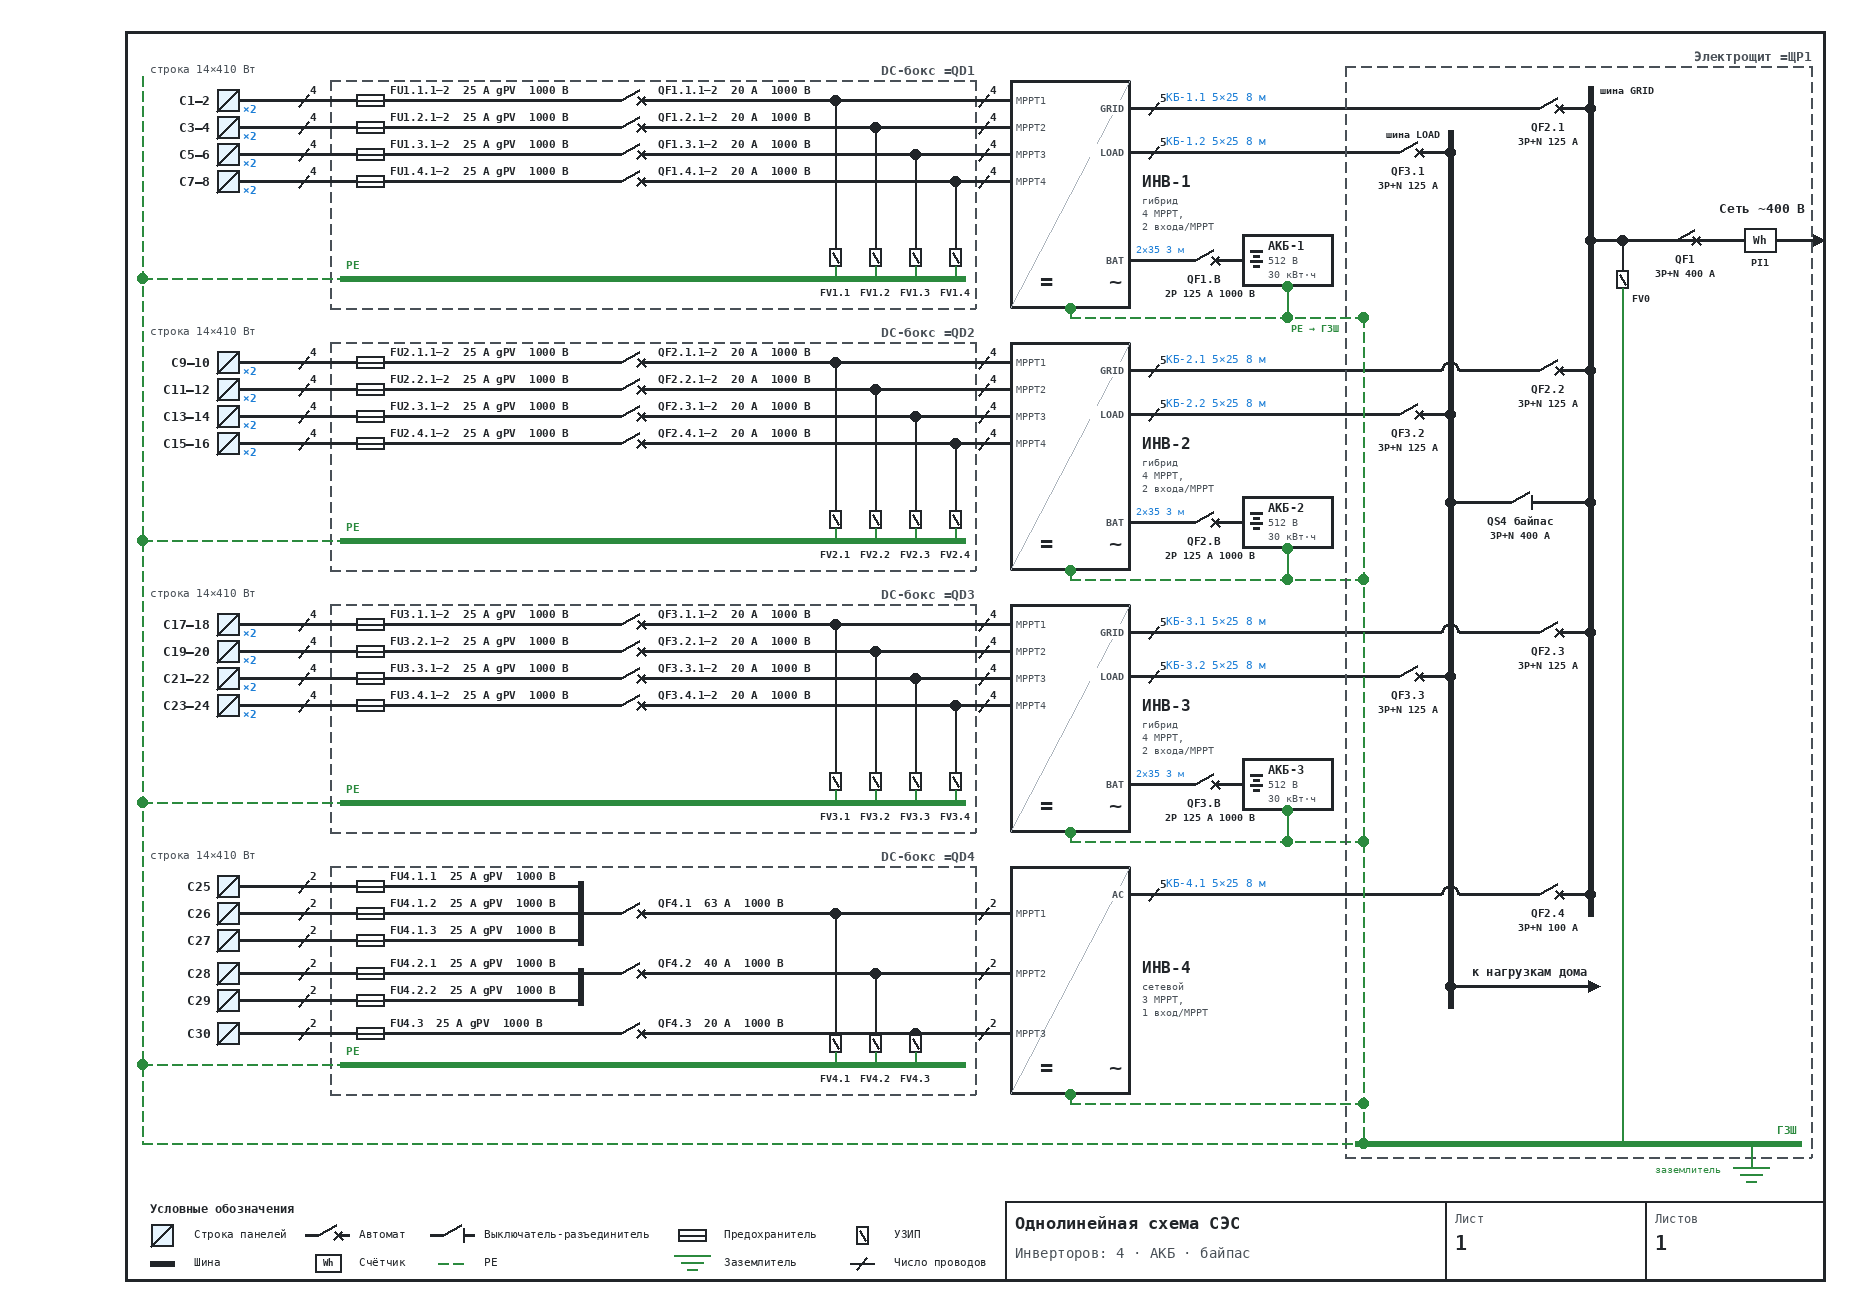
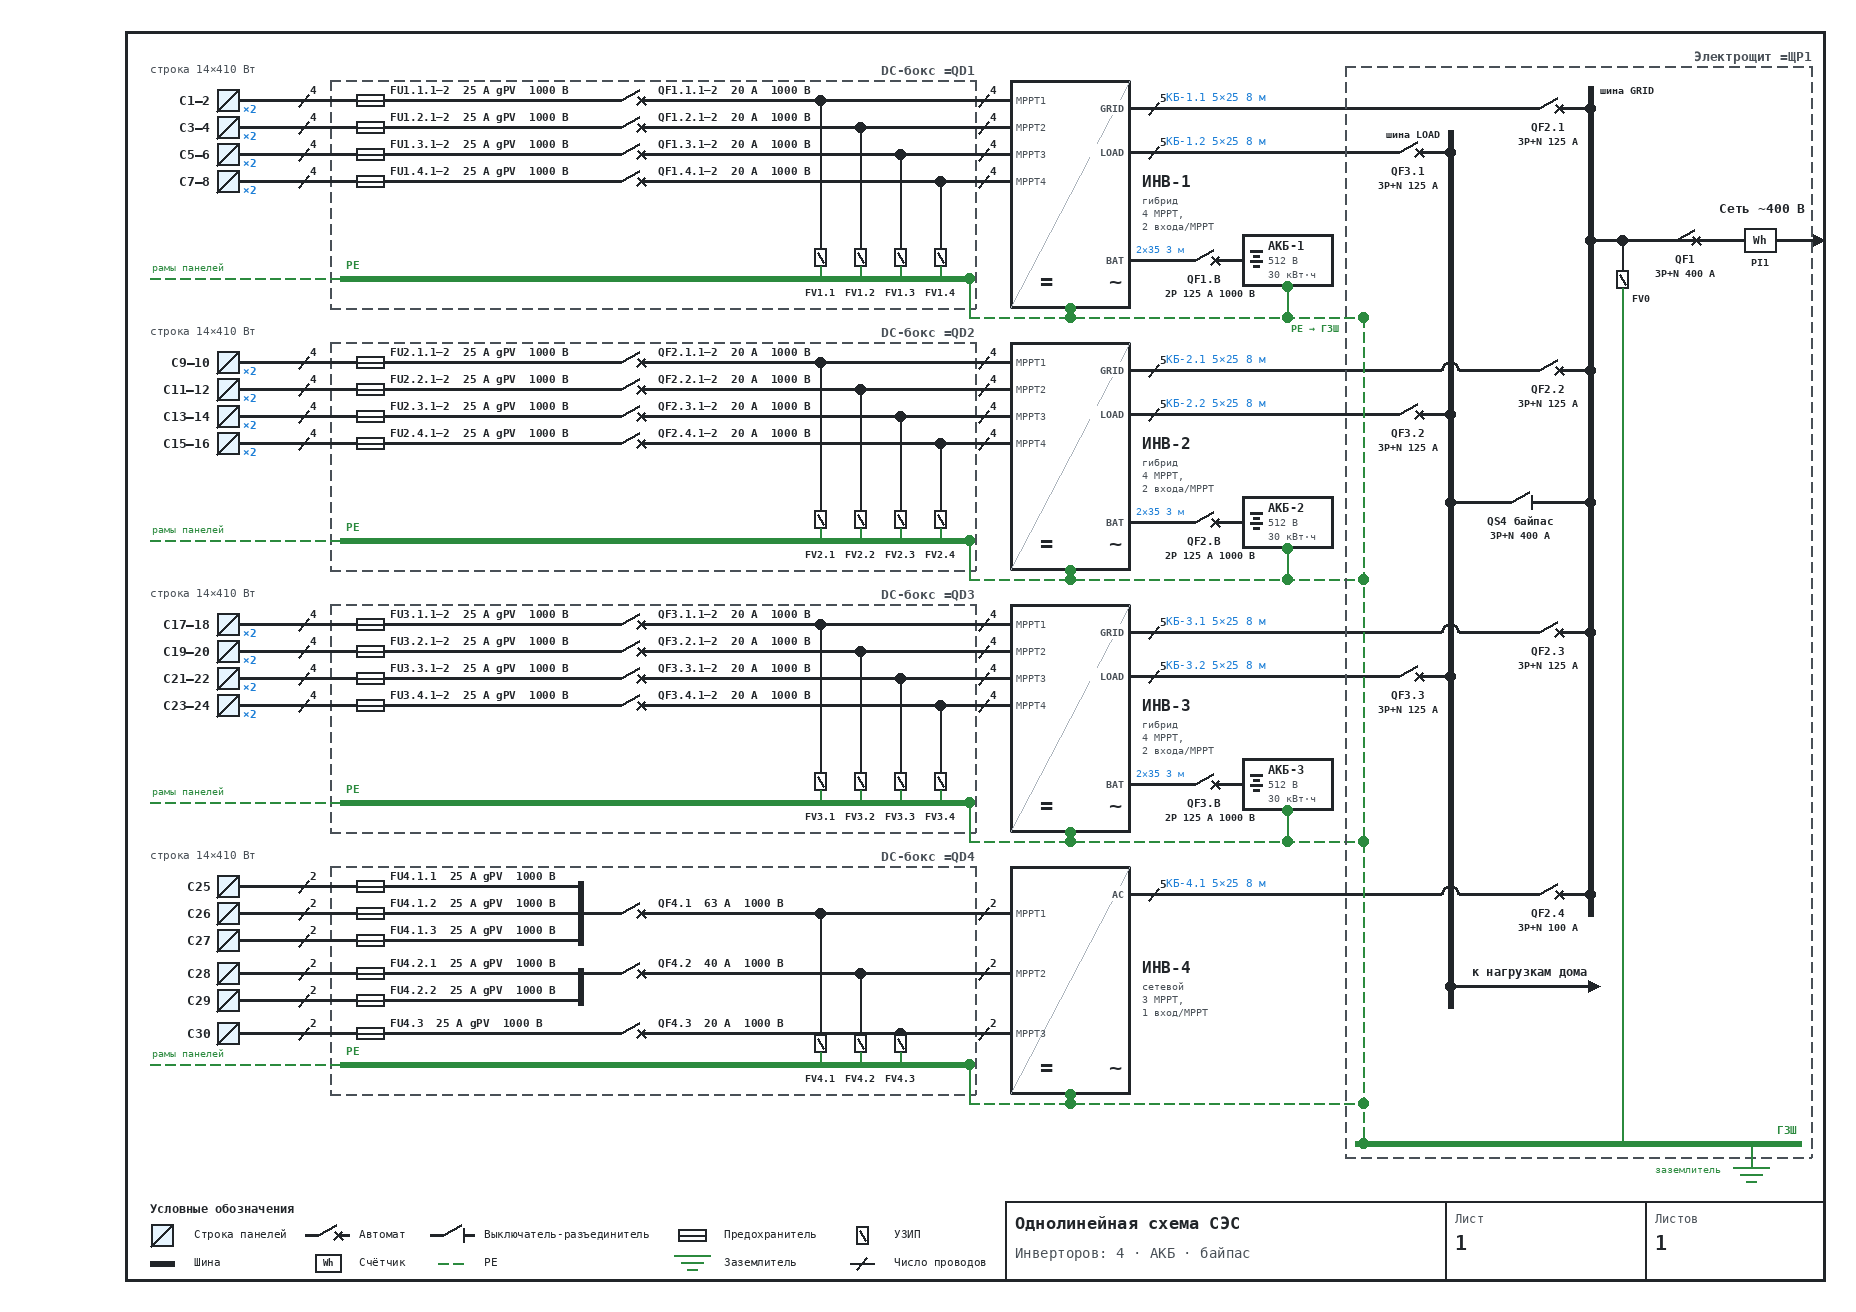
docs: SLD standard - DC box PE bar wired straight to the panel earth bar
Claude-Session: https://claude.ai/code/session_013Xj2HnZp4SaucR5PaR6RJF

diff --git a/docs/sld/tpl4.py b/docs/sld/tpl4.py
@@ -9,7 +9,7 @@ S.t('Однолинейная схема СЭС',sx0+10,sy0+12,17,True); S.t('И
 S.t('Лист',sx0+450,sy0+10,12,False,GREY); S.t('1',sx0+450,sy0+30,20,True); S.t('Листов',sx0+650,sy0+10,12,False,GREY); S.t('1',sx0+650,sy0+30,20,True)
 xPV=228; xD0=330; xD1=975; xI0=1010; xI1=1130; xP0=1345; xP1=W-45; xCol=142
 xLB=1450; xGB=1590
-fuX=xD0+40; busX=xD0+250; swX=xD0+300; spX0=xD0+505
+fuX=xD0+40; busX=xD0+250; swX=xD0+300; spX0=xD0+490
 top=56; slotH=262; pey=top+4*slotH+39; xPE=xP0+18
 def fuse(x,y): d.rectangle((x-14,y-6,x+14,y+6),fill='white',outline=INK,width=2); S.l(x-14,y,x+14,y,2)
 def qf(x,y): S.l(x-22,y,x-9,y); S.l(x-9,y,x+9,y-10); d.line((x+7,y-4,x+15,y+4),fill=INK,width=2); d.line((x+7,y+4,x+15,y-4),fill=INK,width=2); S.l(x+11,y,x+22,y)
@@ -51,14 +51,15 @@ for k,(n,mp,par,si,kind,sub) in enumerate(slots):
             ins.append((ly,f'MPPT{m}')); taps.append((ly,f'FV{n}.{m}')); si+=k2; yy+=P
     for i,(ly,lab) in enumerate(taps):
         x=spX0+i*40; S.dot(x,ly); S.l(x,ly,x,ybar-30,2); spdb(x,ybar-30); S.l(x,ybar-12,x,ybar,2,GRN); S.t(lab,x,ybar+8,10,True,anc='ma')
-    S.l(xD0+10,ybar,xD1-10,ybar,6,GRN); S.t('PE',xD0+16,ybar-20,11,True,GRN); dash(xCol,ybar,xD0+10,ybar); S.dot(xCol,ybar,GRN)
+    S.l(xD0+10,ybar,xD1-6,ybar,6,GRN); S.t('PE',xD0+16,ybar-20,11,True,GRN); dash(xCol+8,ybar,xD0+10,ybar); S.t('рамы панелей',xCol+10,ybar-17,10,False,GRN)
+    xdp=xD1-6; S.dot(xdp,ybar,GRN)
     # inverter + its own PE drop (enclosure) to the PE trunk
     d.rectangle((xI0,y0,xI1,y0+bh),outline=INK,width=3,fill='white'); S.l(xI0,y0+bh,xI1,y0,1,LG)
     S.t('=',xI0+30,y0+bh-40,22,True); S.t('~',xI1-8,y0+bh-40,22,True,anc='ra')
     for (iy,it) in ins: S.t(it,xI0+6,iy-6,10,False,GREY)
     # PE of the inverter enclosure (and battery) -> main panel ГЗШ via collector xPE
     cx=(xI0+xI1)//2; ype=y0+bh+9
-    S.dot(cx,y0+bh,GRN); S.l(cx,y0+bh,cx,ype,2,GRN); dash(cx,ype,xPE,ype); S.dot(xPE,ype,GRN)
+    S.dot(cx,y0+bh,GRN); S.l(cx,y0+bh,cx,ype,2,GRN); S.l(xdp,ybar,xdp,ype,2,GRN); dash(xdp,ype,xPE,ype); S.dot(cx,ype,GRN); S.dot(xPE,ype,GRN)
     if k==0: S.t('PE → ГЗШ',xP0-6,ype+5,10,True,GRN,anc='ra')
     S.t(f'ИНВ-{n}',xI1+12,y0+92,16,True); S.t(kind,xI1+12,y0+114,10,False,GREY); S.t(sub.split(', ')[0]+',',xI1+12,y0+127,10,False,GREY); S.t(sub.split(', ')[1],xI1+12,y0+140,10,False,GREY)
     if kind=='гибрид':
@@ -113,7 +114,7 @@ S.t('к нагрузкам дома',xh,yHs-22,12,True,anc='ra')
 # PE
 S.l(xP0+10,pey,xP1-10,pey,6,GRN); S.t('ГЗШ',xP1-14,pey-20,11,True,GRN,anc='ra')
 xe=xP1-60; S.l(xe,pey,xe,pey+24,2,GRN); S.earth(xe,pey+24); S.t('заземлитель',xe-30,pey+20,10,False,GRN,anc='ra')
-dash(xCol,top+20,xCol,pey); dash(xCol,pey,xP0+10,pey); S.l(xPE,top+slotH-1,xPE,pey,2,GRN,[10,5]); S.dot(xPE,pey,GRN)
+S.l(xPE,top+slotH-1,xPE,pey,2,GRN,[10,5]); S.dot(xPE,pey,GRN)
 # compact legend: one block, 2 rows x 5
 lx,ly=150,H-31-80; S.t('Условные обозначения',lx,ly,12,True)
 items=[('pv','Строка панелей'),('qf','Автомат'),('qs','Выключатель-разъединитель'),('fu','Предохранитель'),('spd','УЗИП'),

diff --git a/TZ_2026-11-09_standart_SLD.md b/TZ_2026-11-09_standart_SLD.md
@@ -31,8 +31,10 @@
 - Гибриды в параллели — одна модель; сетевой другой модели (с объединением строк) — на шину GRID.
 
 ## Заземление (одна система PE)
-- Рамы панелей и УЗИП → PE-шина DC-бокса → PE-магистраль → ГЗШ щита.
-- Корпус каждого инвертора и каждой АКБ → PE-проводник → ГЗШ главного щита (не на рамы).
+- Рамы панелей и УЗИП → PE-шина своего DC-бокса.
+- PE-шина каждого DC-бокса → отдельный PE-проводник → ГЗШ главного щита (видимое прямое соединение).
+- Корпус каждого инвертора и каждой АКБ → тот же PE-проводник → ГЗШ главного щита (не на рамы).
+- PE-проводники рядов сходятся в одну линию к ГЗШ; обходной магистрали по низу листа нет.
 - ГЗШ → один заземлитель.
 
 ## Оформление
